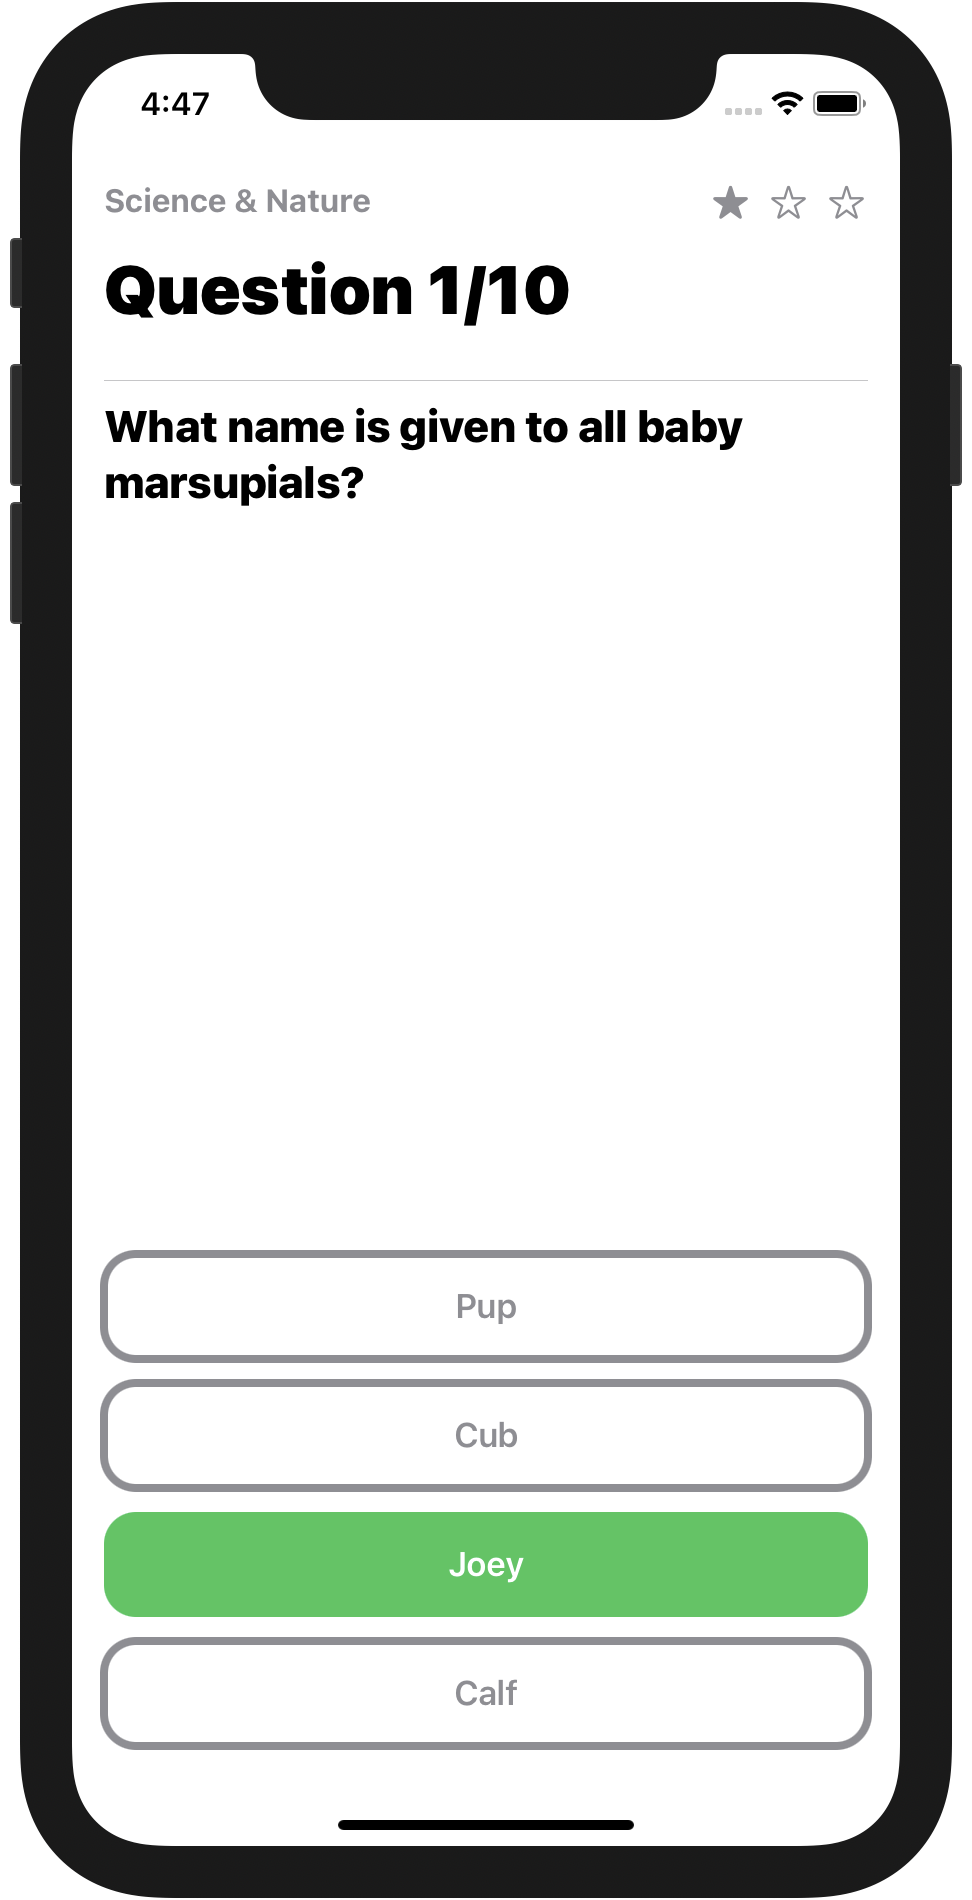
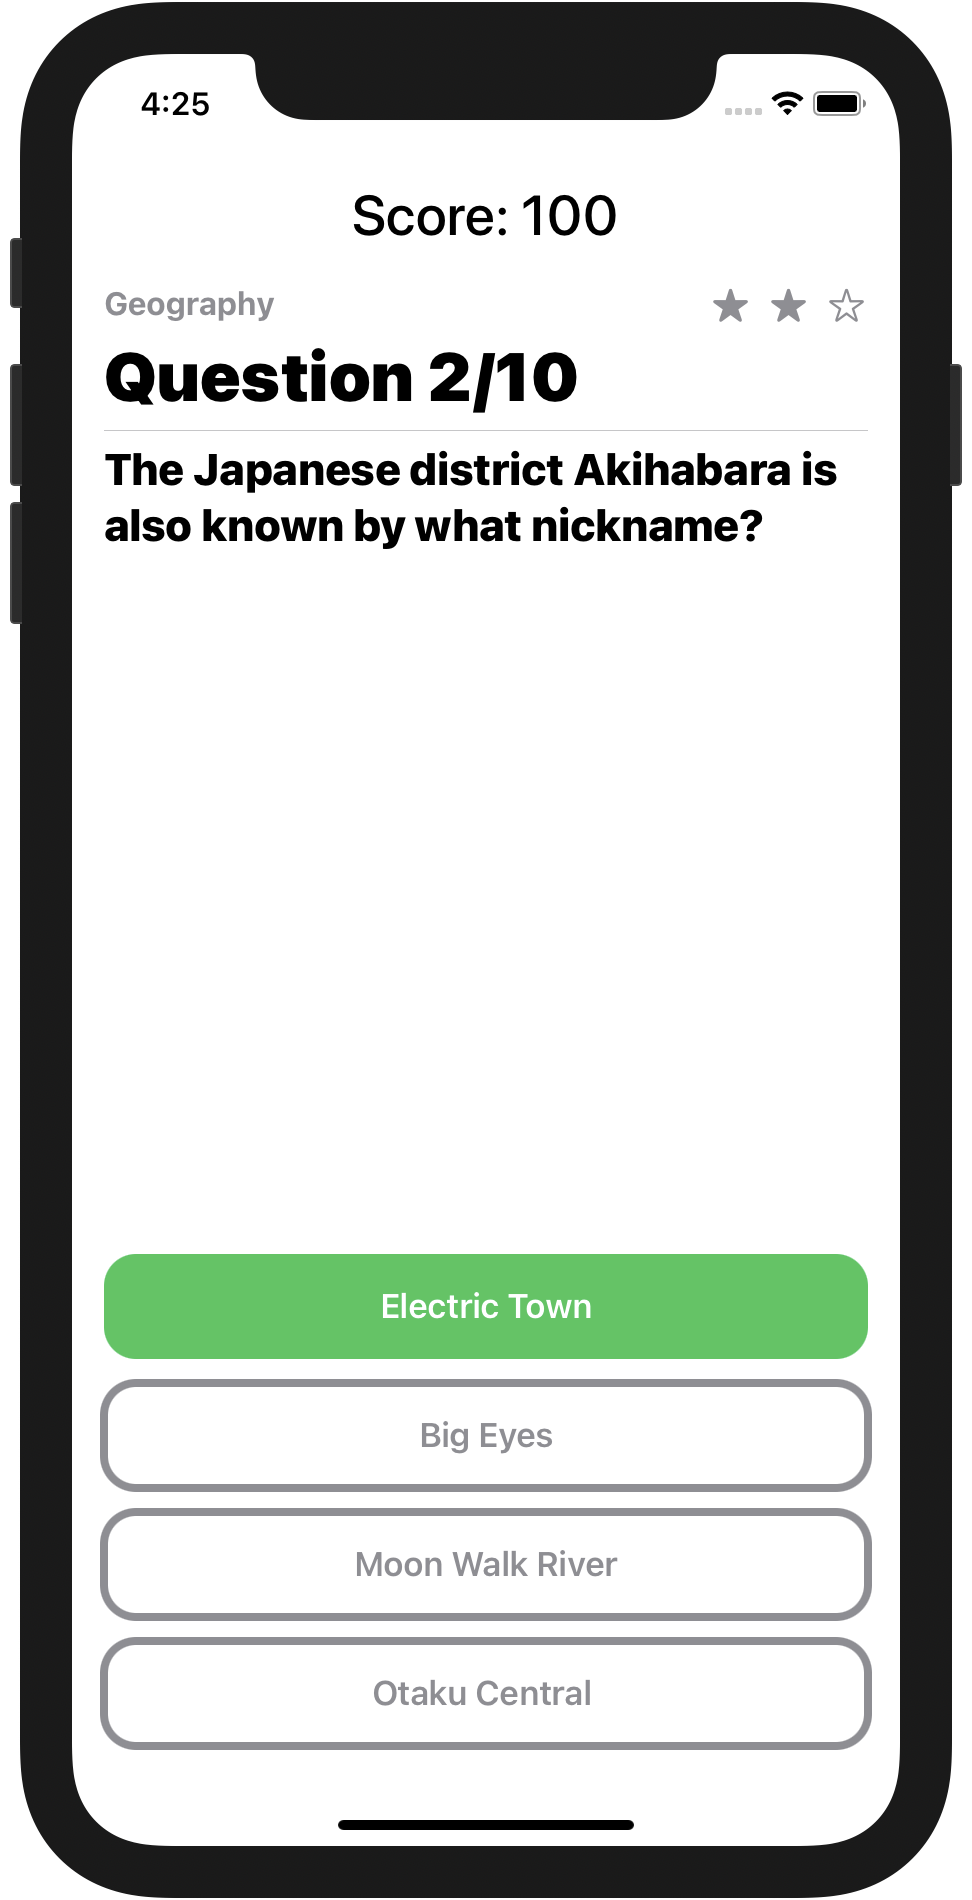
Add the score to the trivia quiz view

diff --git a/Tensai/Views/TriviaQuizView.swift b/Tensai/Views/TriviaQuizView.swift
@@ -32,7 +32,12 @@ struct TriviaQuizView: View {
         let questionNumber = currentQuestionIndex + 1
         let questionCount = triviaQuizRound.questions.count
         
-        return VStack(alignment: .leading) {
+        return VStack(alignment: .leading, spacing: 6) {
+            Text("Score: \(triviaQuizRound.score)")
+                .font(.title)
+                .fontWeight(.medium)
+                .frame(maxWidth: .infinity, alignment: .center)
+                .padding(.bottom, 12)
             HStack {
                 Text(currentQuestion.category).fontWeight(.bold)
                 Spacer()
@@ -40,7 +45,6 @@ struct TriviaQuizView: View {
             }
                 .font(.callout)
                 .foregroundColor(.gray)
-                .padding(.bottom, 6)
             Text("Question \(questionNumber)/\(questionCount)")
                 .font(.largeTitle)
                 .fontWeight(.black)
